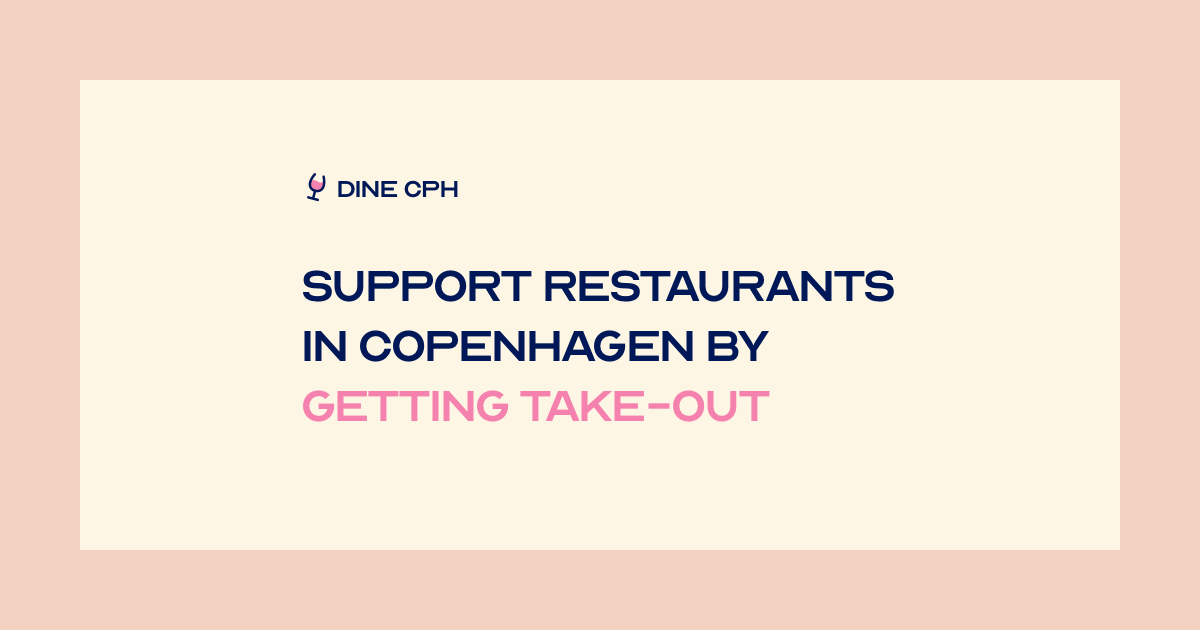
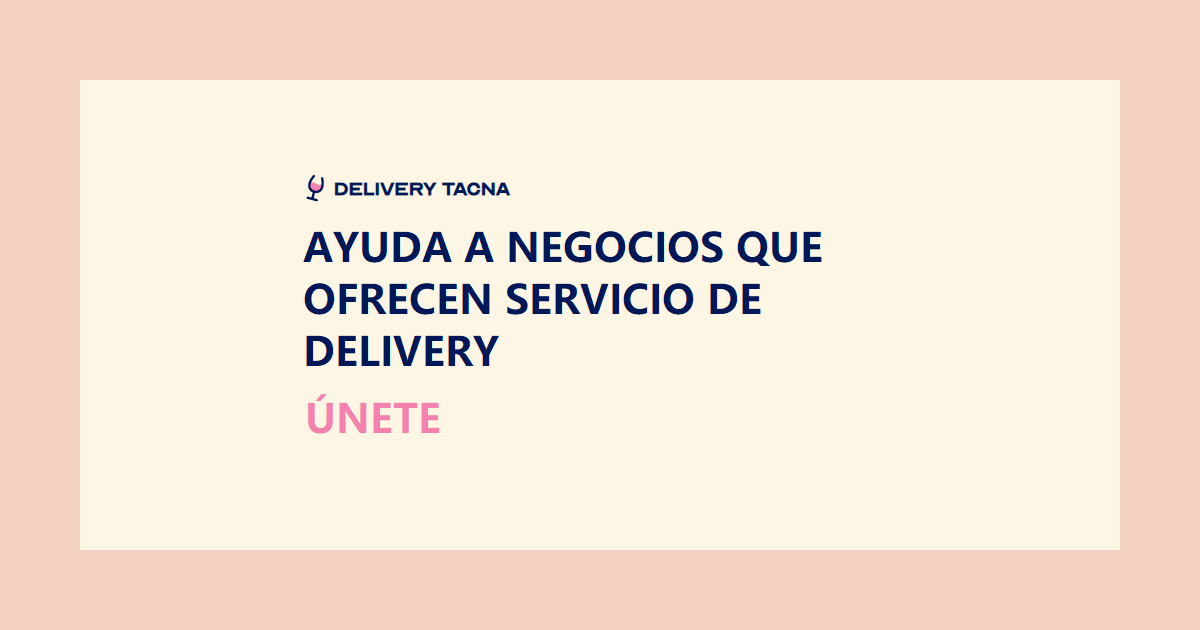
cambio de og-image

Changed region(s): [[0.2467, 0.3619, 0.7708, 0.6937], [0.2467, 0.2714, 0.4317, 0.3317]]

diff --git a/components/Head.js b/components/Head.js
@@ -7,18 +7,18 @@ export default ({ children }) => {
   return (
     <Head>
       <meta name="viewport" content="initial-scale=1.0, width=device-width" />
-      <link rel="icon" href="https://dinecph.dk/favicon.png" />
+      <link rel="icon" href="https://deliverytacna.com/favicon.png" />
       <title>{title}</title>
       <meta name="description" content={description} />
       <meta property="og:title" content={title} />
       <meta property="og:site_name" content={title} />
       <meta property="og:description" content={description} />
-      <meta property="og:image" content="https://dinecph.dk/og-image.png" />
+      <meta property="og:image" content="https://deliverytacna.com/og-image.png" />
       <meta name="twitter:card" content="summary_large_image" />
       {/* <meta name="twitter:site" content="" /> */}
       <meta name="twitter:title" content={title} />
       <meta name="twitter:description" content={description} />
-      <meta name="twitter:image" content="https://dinecph.dk/og-image.png" />
+      <meta name="twitter:image" content="https://deliverytacna.com/og-image.png" />
       {children}
     </Head>
   )

diff --git a/pages/index.js b/pages/index.js
@@ -44,7 +44,7 @@ export default () => {
             </div>
             <img
               src="/assets/hero-illu-alt.png"
-              alt="Vin og sjov"
+              alt="Repartidor"
               className="hidden md:block w-128 h-128"
             />
           </div>
